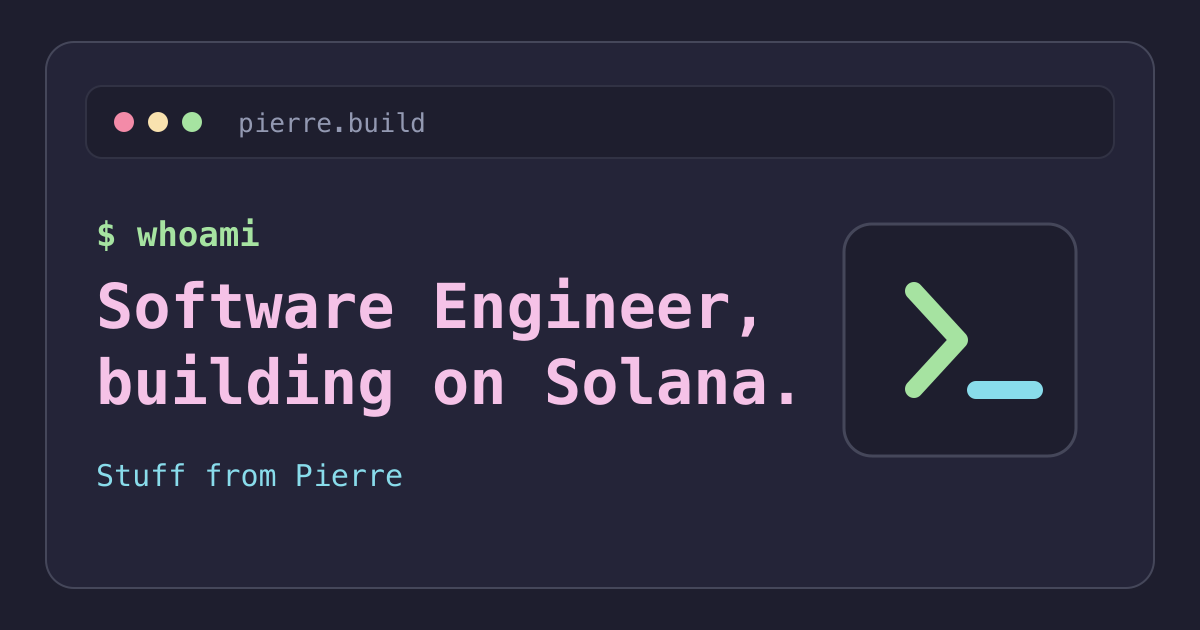
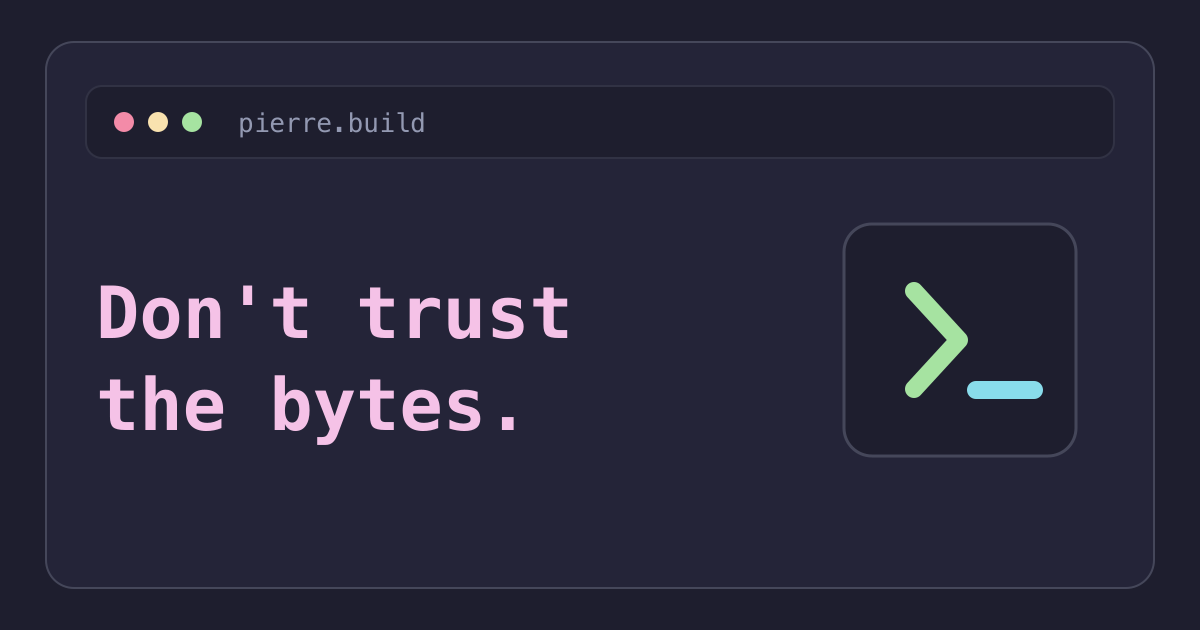
leaner

Changed region(s): [[0.0617, 0.4222, 0.6783, 0.7841], [0.0617, 0.3619, 0.2158, 0.3921], [0.6167, 0.5127, 0.6475, 0.5429]]

diff --git a/src/content/blog/squads-upgrade-buffer-vulnerabilities.md b/src/content/blog/squads-upgrade-buffer-vulnerabilities.md
@@ -1,6 +1,6 @@
 ---
 title: Squads upgrade buffer vulnerabilities
-description: Two ways upgrade buffers can break the mental model of multisig-approved program upgrades.
+description: Two upgrade-buffer tricks that can make multisig approval drift from execution.
 category: security
 pubDate: 2026-04-29
 tags:

diff --git a/src/content/blog/rogue-rpc-buffer-deploys.md b/src/content/blog/rogue-rpc-buffer-deploys.md
@@ -1,6 +1,6 @@
 ---
 title: Rogue RPC node buffer deploys
-description: A compromised RPC node can make a Solana upgrade buffer look complete while hiding a missing write.
+description: A rogue RPC node can make a corrupted upgrade buffer look clean.
 category: security
 pubDate: 2026-04-29
 tags:

diff --git a/src/content/blog/upgrade-buffer-remediation-upgrade-buffer-validation.md b/src/content/blog/upgrade-buffer-remediation-upgrade-buffer-validation.md
@@ -1,6 +1,6 @@
 ---
 title: Upgrade buffer remediation, upgrade buffer validation
-description: Notes on self-validating approvals for upgrade buffers and multisig execution.
+description: Make the approval prove the bytes before the vote can land.
 category: security
 pubDate: 2026-04-29
 tags:

diff --git a/src/content/blog/program-upgrades-and-multisig.md b/src/content/blog/program-upgrades-and-multisig.md
@@ -1,6 +1,6 @@
 ---
 title: Multisig transaction flow
-description: A compact view of what create, vote, and execute reference in a Squads transaction.
+description: What a Squads signer should inspect before approving anything.
 category: security
 pubDate: 2026-04-29
 tags:
